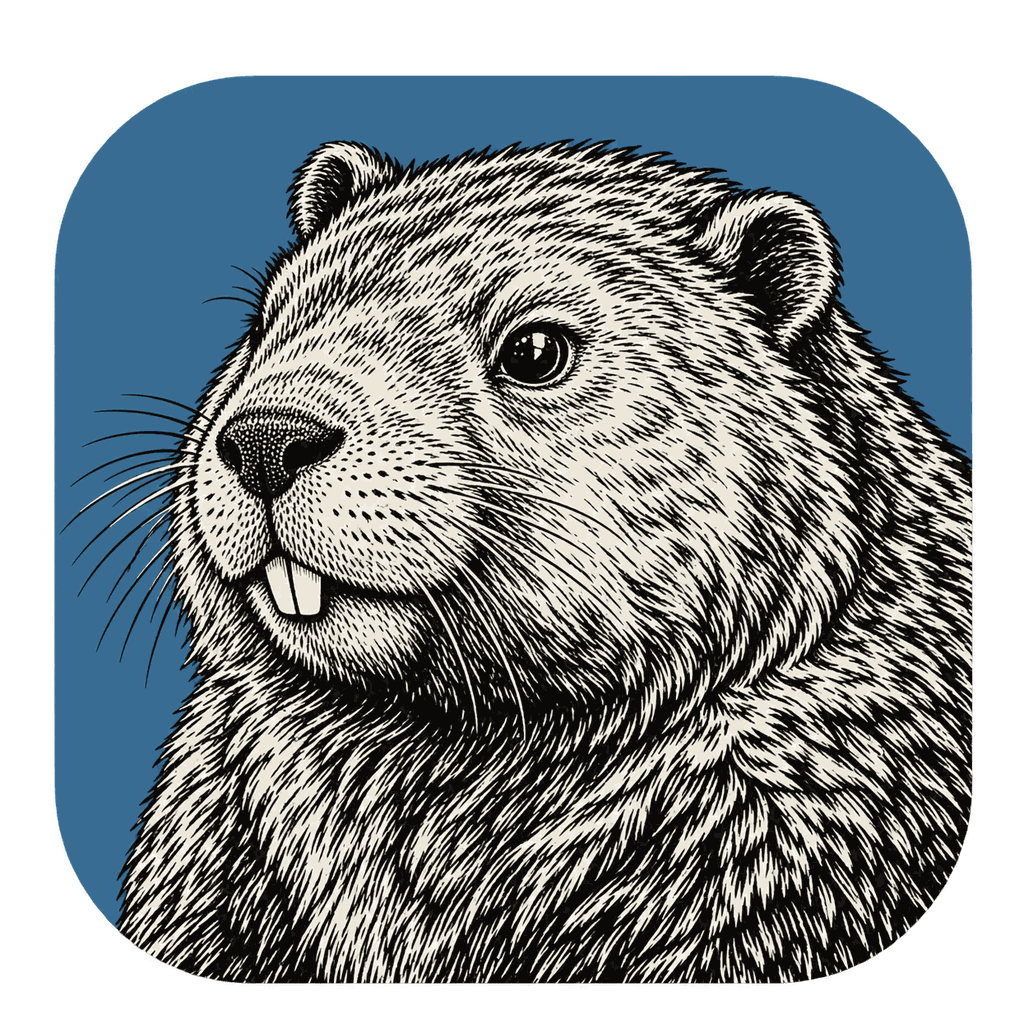
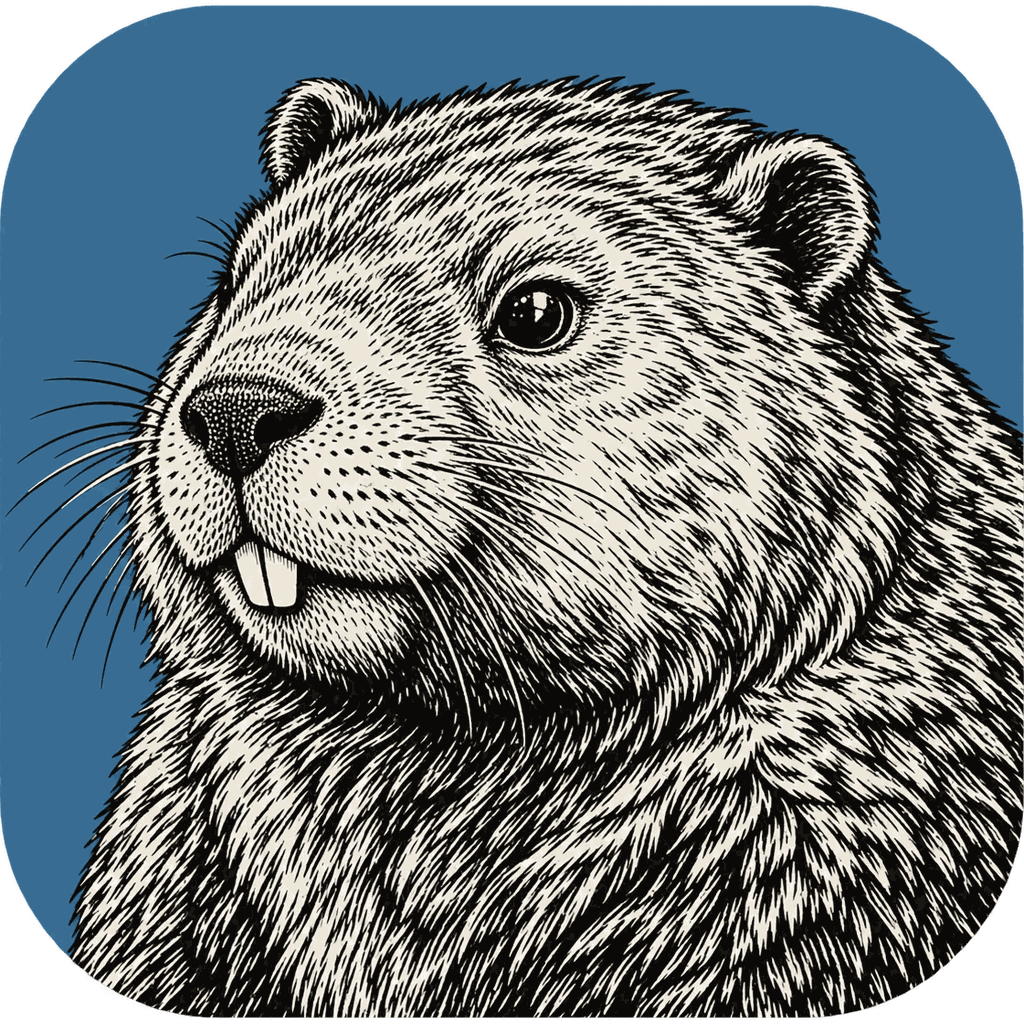
Fit the beaver to its tile and install its terms on Windows
The rules review found three things. The picture kept a transparent
margin round its tile, so the icon on the platform grid came out about
a tenth too small and sat low, and the Icon Composer layer did not fill
the canvas: the picture is now cropped to the tile, which fills the
1024 pixel square (a few pixels clear above and below, as the tile is
not quite square). The Windows installer refused to build, as every
licence text must be listed: it now installs licenses\brand with the
icon's terms, and its licence page says the icon is a brand mark. The
window icon's test now checks the tile reaches the grid on every side
and no further; resize reads the decoded picture with checked slices;
the two copies of the average point at each other.

diff --git a/xtask/src/resize.rs b/xtask/src/resize.rs
@@ -55,13 +55,18 @@ fn read(path: &str) -> Result<(usize, Vec<u8>), String> {
     let side = w as usize;
     let pixels = side * side;
     let rgba = match frame.color_type {
-        png::ColorType::Rgba => buf[..pixels * 4].to_vec(),
-        png::ColorType::Rgb => buf[..pixels * 3].chunks_exact(3).flat_map(|p| [p[0], p[1], p[2], 255]).collect(),
-        png::ColorType::GrayscaleAlpha => buf[..pixels * 2].chunks_exact(2).flat_map(|p| [p[0], p[0], p[0], p[1]]).collect(),
-        png::ColorType::Grayscale => buf[..pixels].iter().flat_map(|g| [*g, *g, *g, 255]).collect(),
+        png::ColorType::Rgba => short(&buf, pixels * 4, path)?.to_vec(),
+        png::ColorType::Rgb => short(&buf, pixels * 3, path)?.chunks_exact(3).flat_map(|p| [p[0], p[1], p[2], 255]).collect(),
+        png::ColorType::GrayscaleAlpha => short(&buf, pixels * 2, path)?.chunks_exact(2).flat_map(|p| [p[0], p[0], p[0], p[1]]).collect(),
+        png::ColorType::Grayscale => short(&buf, pixels, path)?.iter().flat_map(|g| [*g, *g, *g, 255]).collect(),
         png::ColorType::Indexed => return Err(format!("{path}: the palette was not expanded")),
     };
     Ok((side, rgba))
+}
+
+/// The first `len` bytes of a decoded picture, or why there are fewer.
+fn short<'a>(buf: &'a [u8], len: usize, path: &str) -> Result<&'a [u8], String> {
+    buf.get(..len).ok_or_else(|| format!("{path}: the picture is shorter than its header says"))
 }
 
 /// The source pixels each of `to` pixels covers along `from`, with the share each gives.
@@ -84,7 +89,8 @@ fn weights(from: usize, to: usize) -> Vec<Vec<(usize, f32)>> {
         .collect()
 }
 
-/// `rgba`, `from` pixels a side, averaged down to `to` pixels a side.
+/// `rgba`, `from` pixels a side, averaged down to `to` pixels a side. The same average as the
+/// app's window icon (apps/archforge/src/app_icon.rs); keep the two in step.
 fn scale(rgba: &[u8], from: usize, to: usize) -> Vec<u8> {
     let w = weights(from, to);
     // Premultiplied, across first, then down.

diff --git a/apps/archforge/src/app_icon.rs b/apps/archforge/src/app_icon.rs
@@ -69,7 +69,8 @@ fn decode(bytes: &[u8]) -> Result<(usize, Vec<u8>), String> {
 }
 
 /// `rgba`, `from` pixels a side, averaged down to `to` pixels a side, alpha premultiplied so a
-/// clear edge stays clean.
+/// clear edge stays clean. The same average as `cargo xtask resize` (xtask/src/resize.rs), which
+/// the packaging sizes come from; keep the two in step.
 fn scale(rgba: &[u8], from: usize, to: usize) -> Vec<u8> {
     let step = from as f32 / to as f32;
     let weights: Vec<Vec<(usize, f32)>> = (0..to)
@@ -129,7 +130,15 @@ mod tests {
         let icon = picture().unwrap();
         assert_eq!((icon.width, icon.height, icon.rgba.len()), (256, 256, 256 * 256 * 4));
         assert_eq!(pixel(&icon, 0, 0)[3], 0, "the margin is clear");
-        assert_eq!(pixel(&icon, 128, 10)[3], 0, "above the tile too");
+        // The tile fills the grid's square, 206 pixels from 25, centred: opaque just inside each
+        // edge's middle, clear just outside.
+        let (lo, hi) = (25, 25 + TILE - 1);
+        for (x, y) in [(lo + 3, 128), (hi - 3, 128), (128, lo + 3), (128, hi - 3)] {
+            assert!(pixel(&icon, x, y)[3] > 200, "the tile reaches the grid at ({x}, {y}): {:?}", pixel(&icon, x, y));
+        }
+        for (x, y) in [(lo - 2, 128), (hi + 2, 128), (128, lo - 2), (128, hi + 2)] {
+            assert_eq!(pixel(&icon, x, y)[3], 0, "and no further, at ({x}, {y})");
+        }
         // The blue of the tile, high up at the left, where the beaver is not.
         let blue = pixel(&icon, 50, 60);
         assert!(blue[3] > 240, "the tile is opaque: {blue:?}");

diff --git a/ATTRIBUTION.md b/ATTRIBUTION.md
@@ -4,7 +4,7 @@ Generated by `cargo xtask assets` from `ATTRIBUTION.toml`; do not edit by hand.
 
 | Path | Author | Source | Licence | SHA-256 |
 |---|---|---|---|---|
[2 lines of base64/hex data omitted]
 
 ## Fonts
 
